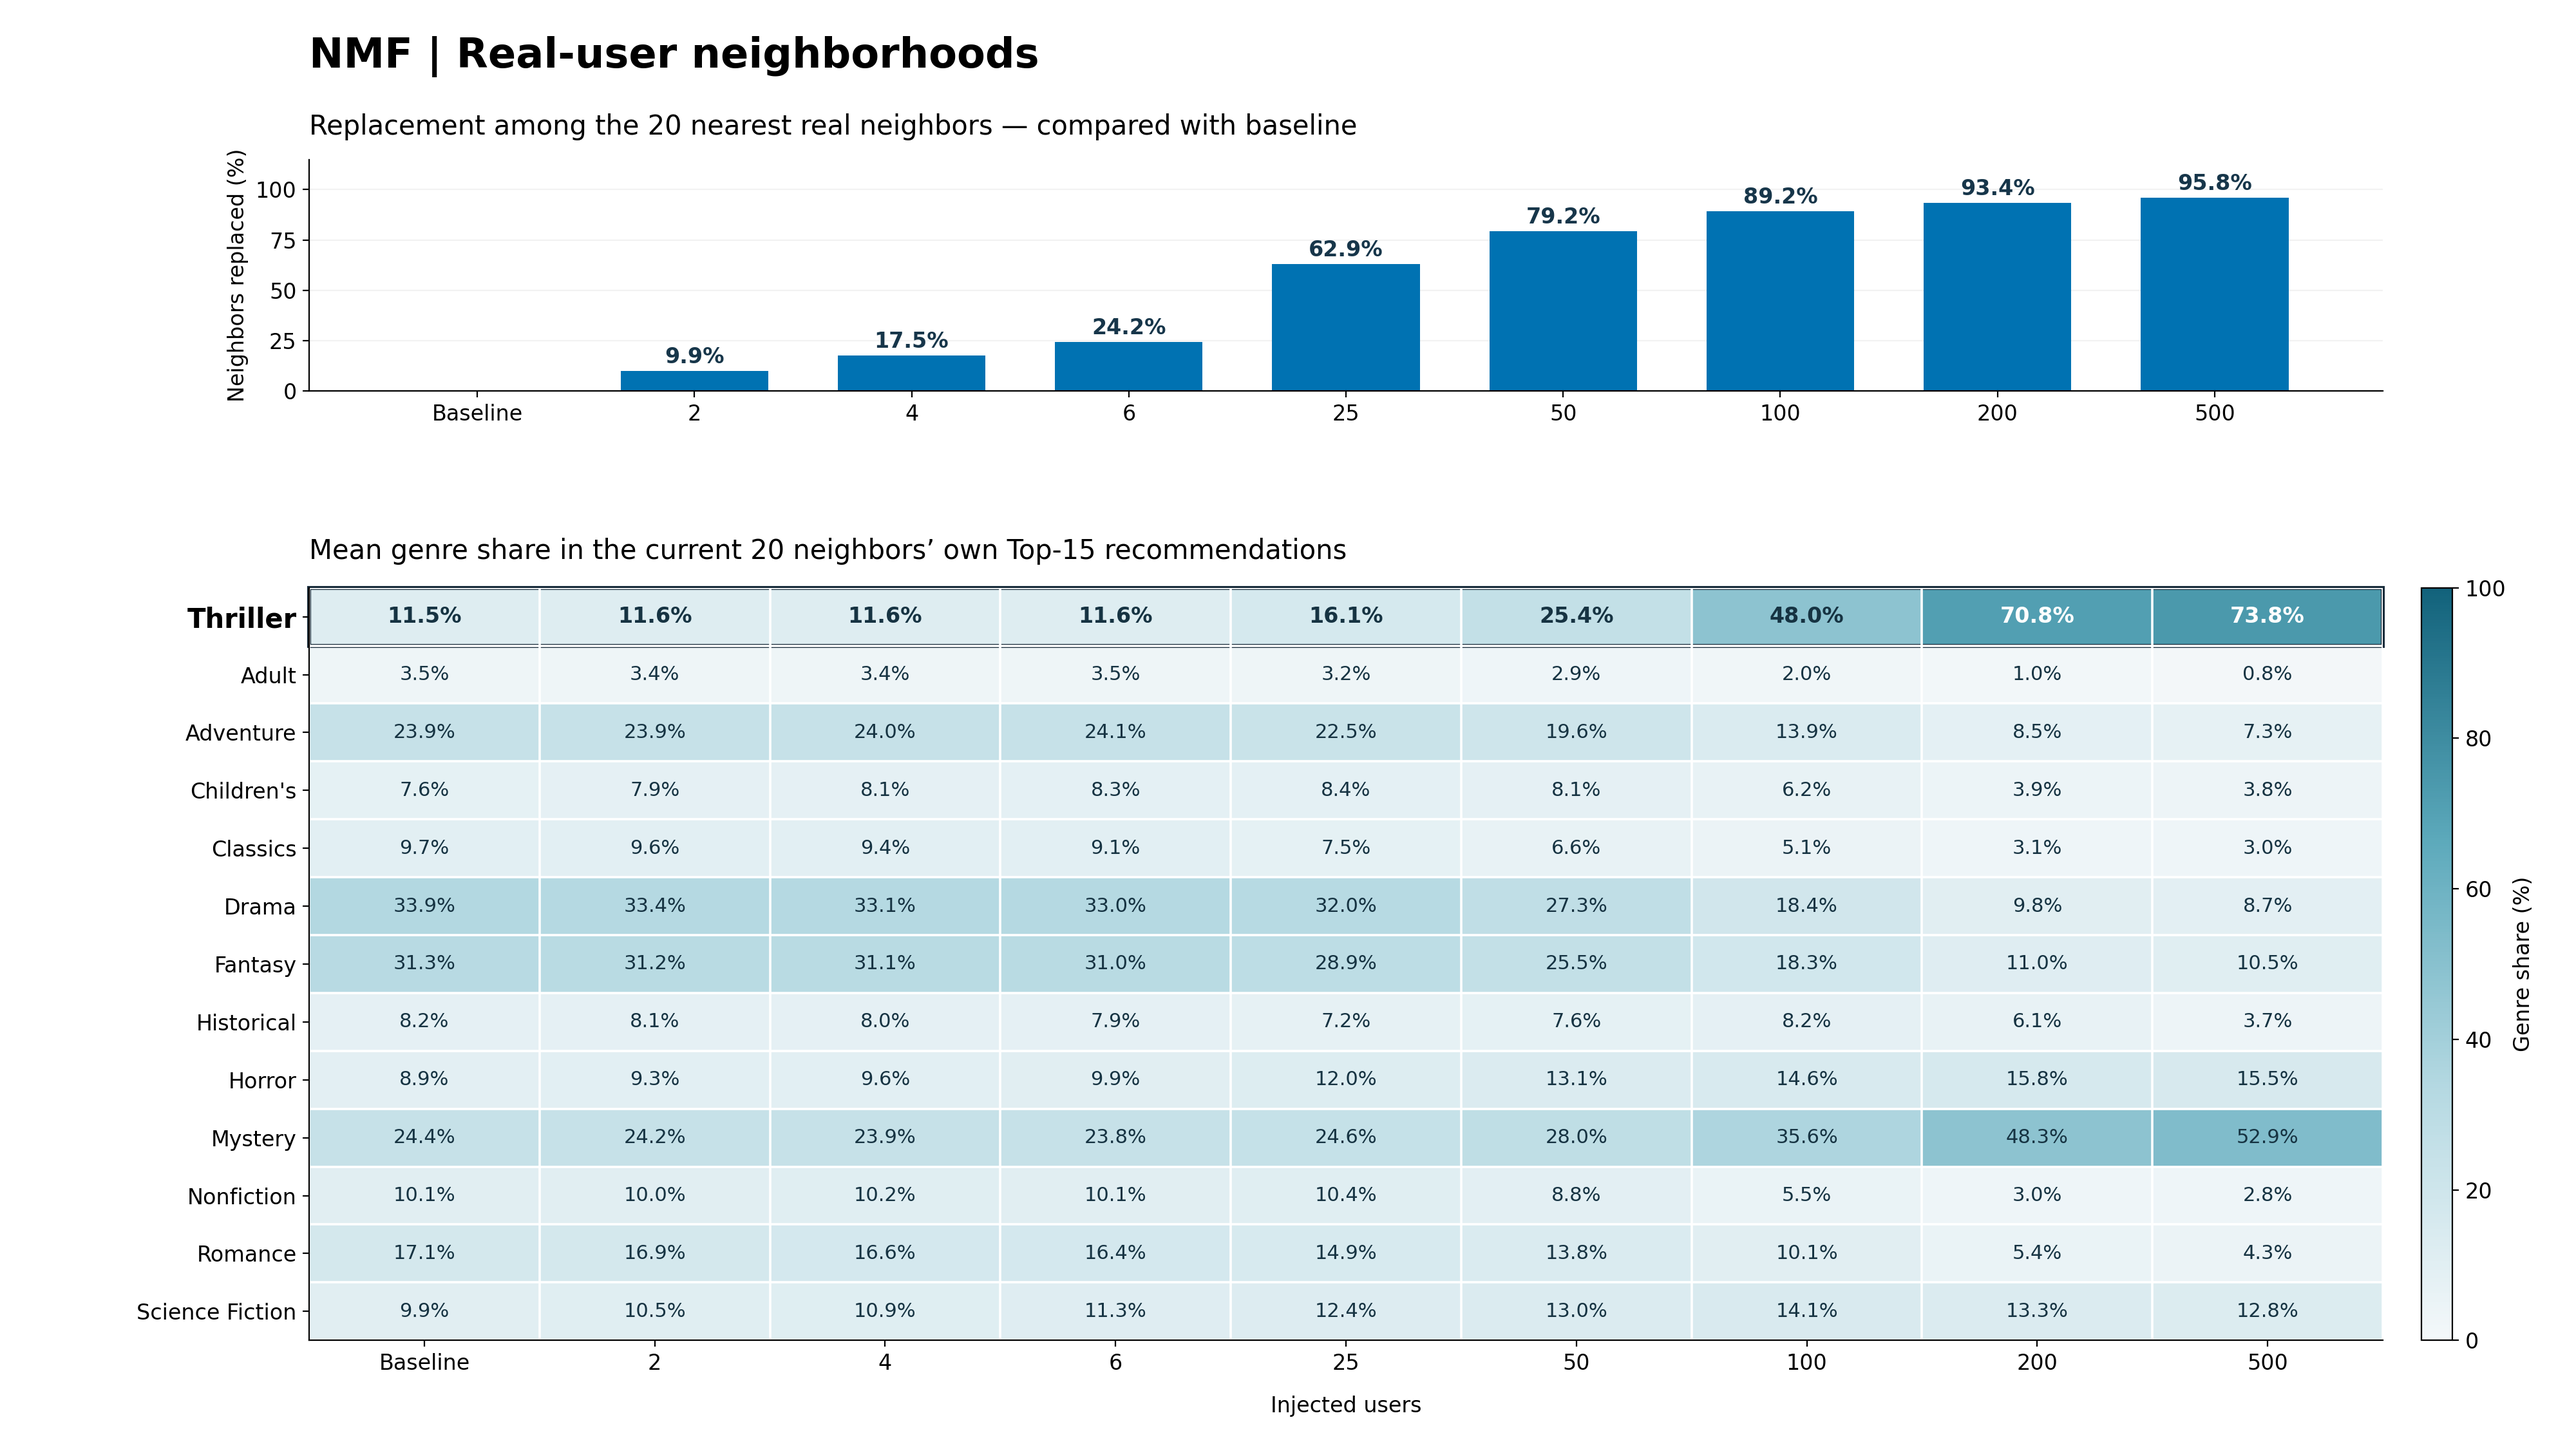
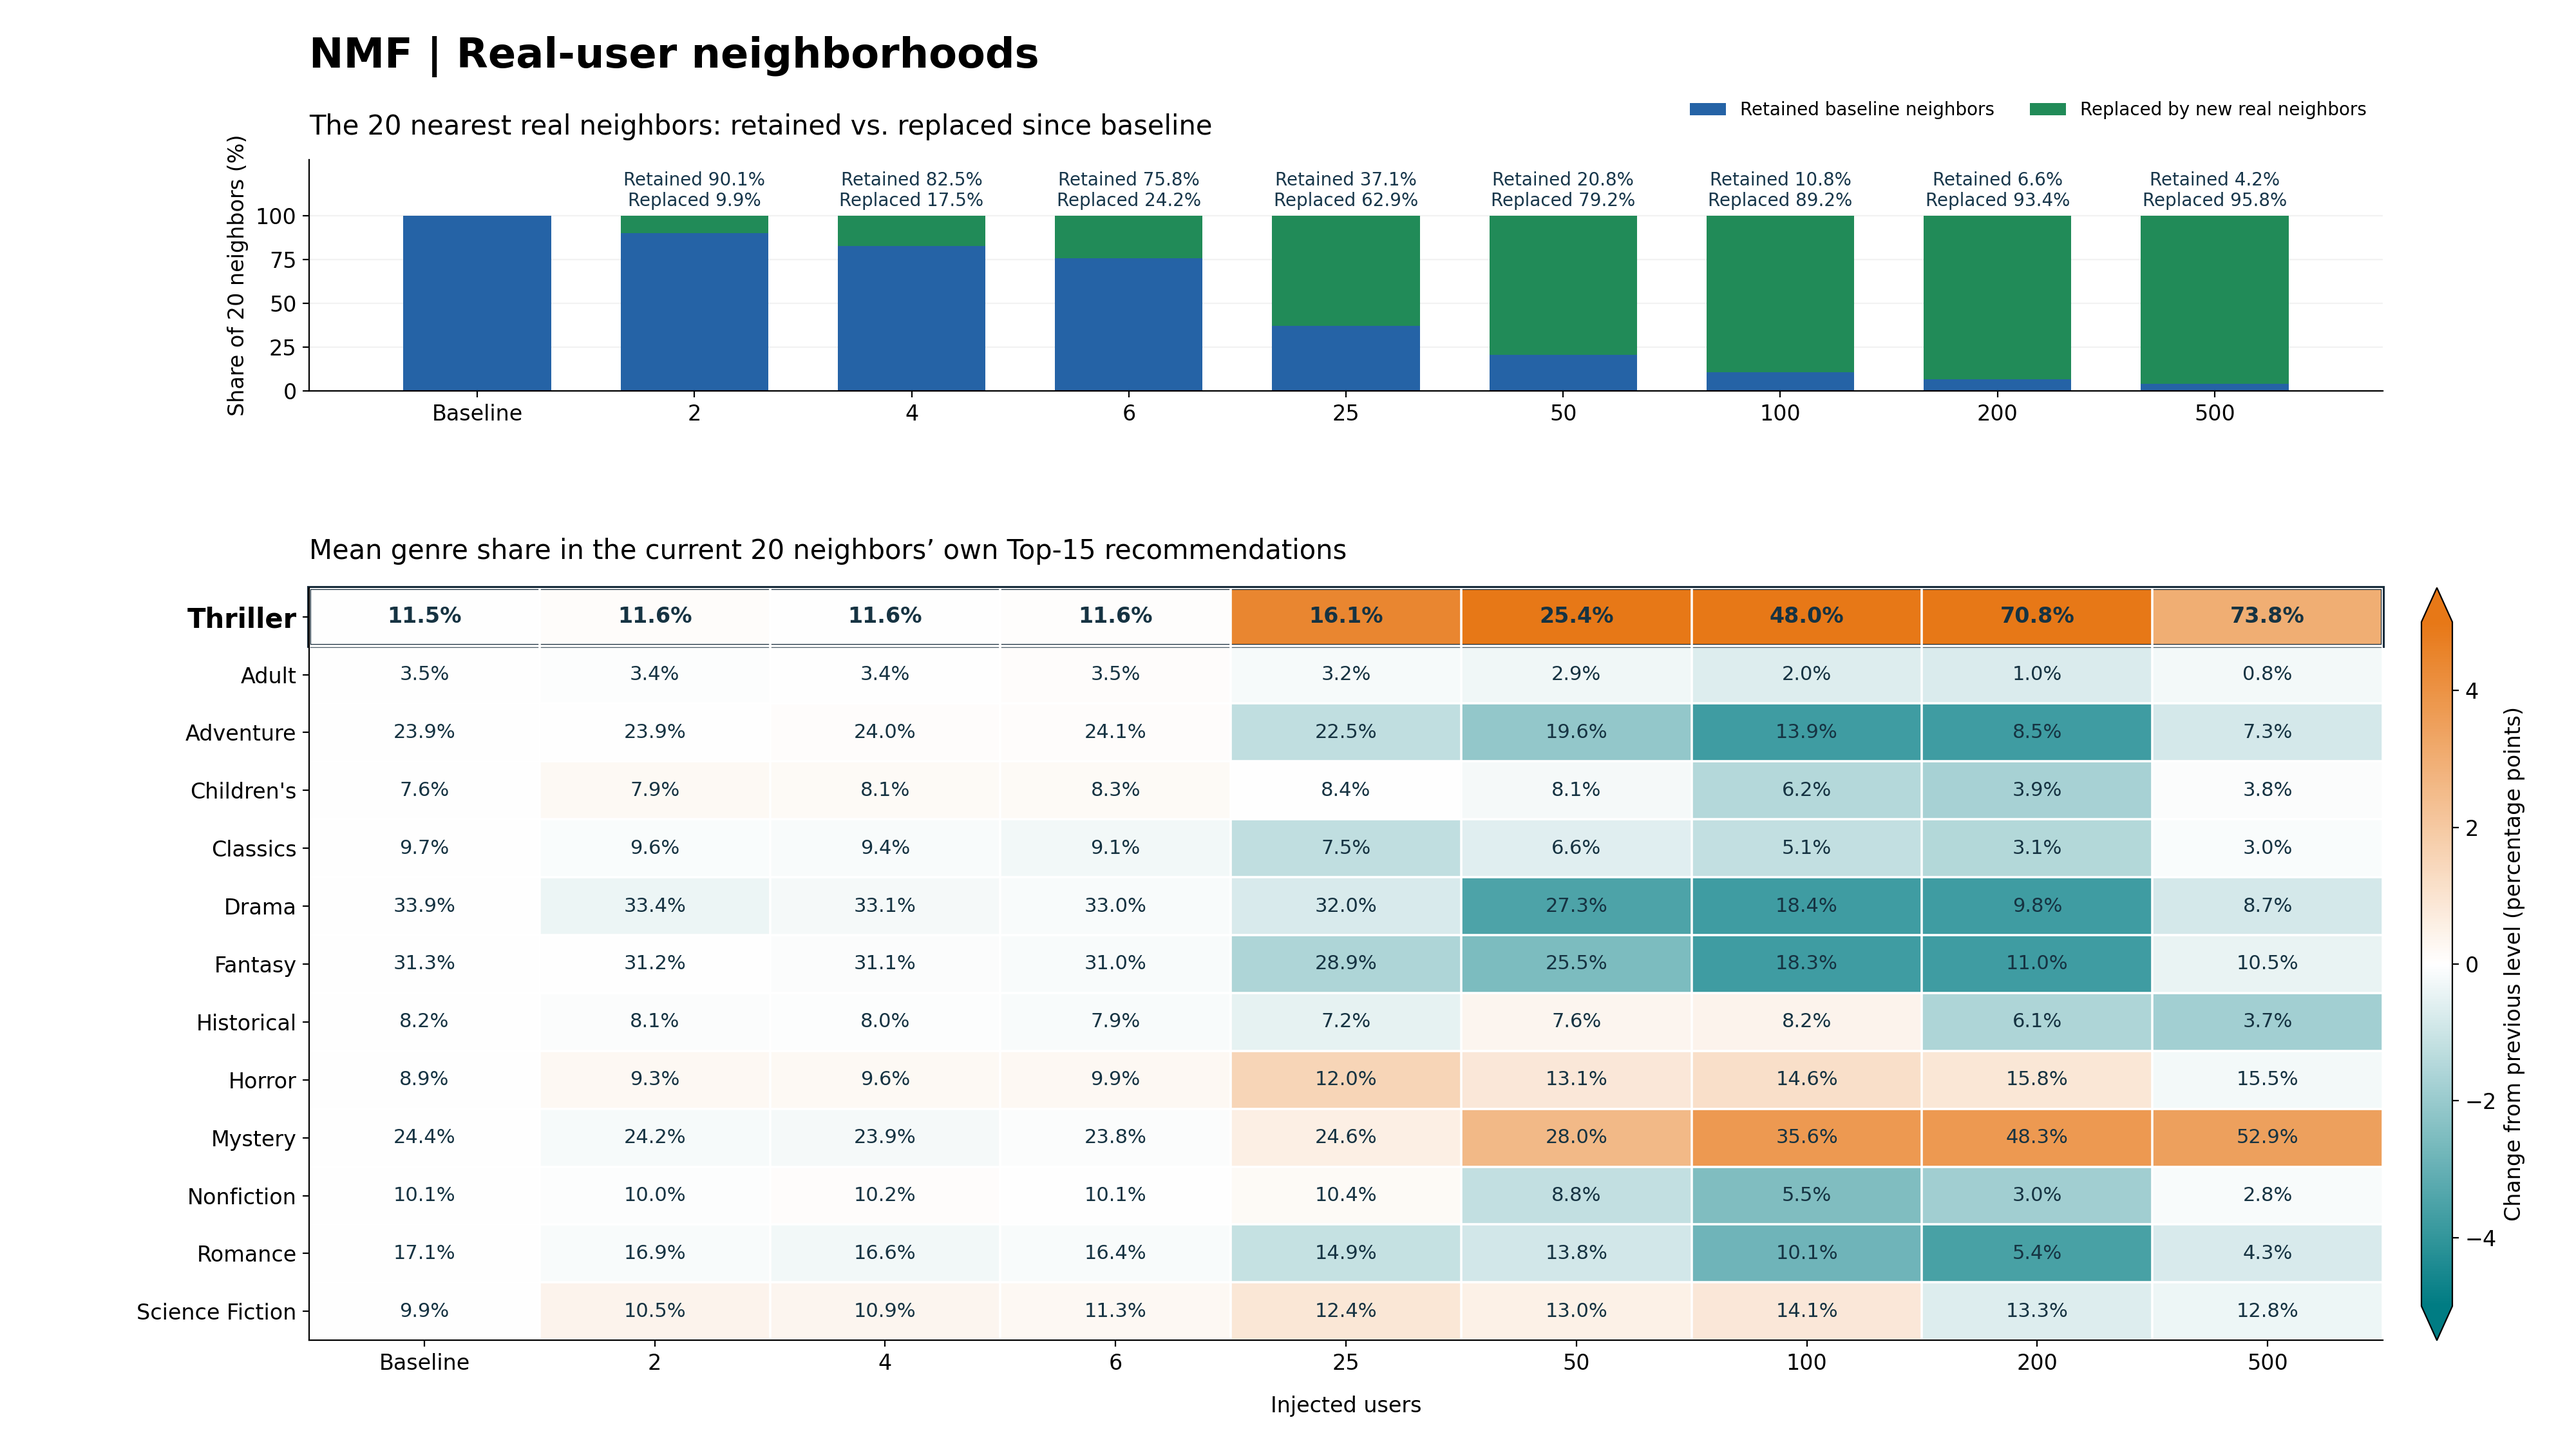
Show retained and replaced neighbor percentages and restore heatmap palette

diff --git a/Book/current/PerturbRec/svd_nmf/layer2/materials/notebook/rebuild_neighborhood_top15.py b/Book/current/PerturbRec/svd_nmf/layer2/materials/notebook/rebuild_neighborhood_top15.py
@@ -7,7 +7,7 @@ import numpy as np,pandas as pd
 import matplotlib
 matplotlib.use('Agg')
 import matplotlib.pyplot as plt
-from matplotlib.colors import LinearSegmentedColormap,Normalize
+from matplotlib.colors import LinearSegmentedColormap,Normalize,TwoSlopeNorm
 from matplotlib.patches import Rectangle
 from scipy.sparse import csr_matrix
 ROOT=Path('/home/moshtasa/Research/phd-recsys/Book/current/PerturbRec/svd_nmf/layer2')
@@ -55,18 +55,24 @@ table=pd.DataFrame(result);table.to_csv(DATA/'genre_shares_top15.csv',index=Fals
 values=table.pivot(index='genre',columns='n_fake',values='mean_genre_share_percent').loc[genres,DOSES]
 plt.rcParams.update({'font.family':'DejaVu Sans','font.size':12,'axes.spines.top':False,'axes.spines.right':False,'figure.facecolor':'white','savefig.facecolor':'white'})
 fig=plt.figure(figsize=(20,11.25));gs=fig.add_gridspec(2,1,height_ratios=[1,3.25],hspace=.40);ax=fig.add_subplot(gs[0]);hm=fig.add_subplot(gs[1]);x=np.arange(len(DOSES));labels=['Baseline']+[str(n) for n in DOSES[1:]]
-ax.bar(x,turnovers,color='#0072B2',width=.68)
+retained_percent=100-np.asarray(turnovers)
+ax.bar(x,retained_percent,color='#2563A6',width=.68,label='Retained baseline neighbors')
+ax.bar(x,turnovers,bottom=retained_percent,color='#218B58',width=.68,label='Replaced by new real neighbors')
 for j,v in enumerate(turnovers):
- if j:ax.text(j,v+1.7,f'{v:.1f}%',ha='center',va='bottom',fontsize=12,fontweight='bold',color='#17364A')
-ax.set_xticks(x,labels);ax.set_ylim(0,115);ax.set_yticks([0,25,50,75,100]);ax.set_ylabel('Neighbors replaced (%)');ax.set_title('Replacement among the 20 nearest real neighbors — compared with baseline',loc='left',fontsize=15,pad=14);ax.grid(axis='y',alpha=.16);ax.set_axisbelow(True)
-cmap=LinearSegmentedColormap.from_list('share',['#F4F8FA','#B5D9E2','#5CA9BB','#12627B']);norm=Normalize(vmin=0,vmax=100);im=hm.imshow(values.to_numpy(),aspect='auto',cmap=cmap,norm=norm)
+ if j:ax.text(j,103,f'Retained {100-v:.1f}%\nReplaced {v:.1f}%',ha='center',va='bottom',fontsize=10,linespacing=1.2,color='#17364A')
+ax.set_xticks(x,labels);ax.set_ylim(0,132);ax.set_yticks([0,25,50,75,100]);ax.set_ylabel('Share of 20 neighbors (%)');ax.set_title('The 20 nearest real neighbors: retained vs. replaced since baseline',loc='left',fontsize=15,pad=14);ax.grid(axis='y',alpha=.16);ax.set_axisbelow(True)
+ax.legend(loc='upper right',bbox_to_anchor=(1,1.32),ncol=2,frameon=False,fontsize=10)
+# Restore the original teal-white-orange palette and change-from-previous color encoding.
+delta=values.diff(axis=1).fillna(0)
+cmap=LinearSegmentedColormap.from_list('change',['#007C83','#FFFFFF','#E77817']);norm=TwoSlopeNorm(vmin=-5,vcenter=0,vmax=5);im=hm.imshow(delta.to_numpy(),aspect='auto',cmap=cmap,norm=norm)
+hm.add_patch(Rectangle((-.5,.5),len(DOSES),len(genres)-1,facecolor='white',edgecolor='none',alpha=.25,zorder=2))
 hm.set_yticks(range(len(genres)),genres,fontsize=12);hm.get_yticklabels()[0].set_fontweight('bold');hm.get_yticklabels()[0].set_fontsize(15);hm.set_xticks(x,labels);hm.set_xlabel('Injected users',labelpad=12);hm.set_title('Mean genre share in the current 20 neighbors’ own Top-15 recommendations',loc='left',fontsize=15,pad=16)
 for i in range(len(genres)):
  for j in range(len(DOSES)):
-  v=values.iloc[i,j];hm.text(j,i,f'{v:.1f}%',ha='center',va='center',fontsize=12 if i==0 else 11,fontweight='bold' if i==0 else 'normal',color='white' if v>65 else '#163342')
+  v=values.iloc[i,j];hm.text(j,i,f'{v:.1f}%',ha='center',va='center',fontsize=12 if i==0 else 11,fontweight='bold' if i==0 else 'normal',color='#163342')
 hm.set_xticks(np.arange(-.5,len(DOSES),1),minor=True);hm.set_yticks(np.arange(-.5,len(genres),1),minor=True);hm.grid(which='minor',color='white',lw=1.3);hm.tick_params(which='minor',bottom=False,left=False);hm.add_patch(Rectangle((-.5,-.5),len(DOSES),1,fill=False,edgecolor='#172B3A',linewidth=2.2,clip_on=False))
 # Dedicated colorbar axis preserves identical column positions in both panels.
-fig.subplots_adjust(left=.12,right=.925,top=.89,bottom=.075);pos=hm.get_position();cax=fig.add_axes([.94,pos.y0,.012,pos.height]);fig.colorbar(im,cax=cax,label='Genre share (%)');fig.suptitle('NMF | Real-user neighborhoods',x=.12,ha='left',fontsize=23,fontweight='bold',y=.975)
+fig.subplots_adjust(left=.12,right=.925,top=.89,bottom=.075);pos=hm.get_position();cax=fig.add_axes([.94,pos.y0,.012,pos.height]);fig.colorbar(im,cax=cax,label='Change from previous level (percentage points)',extend='both');fig.suptitle('NMF | Real-user neighborhoods',x=.12,ha='left',fontsize=23,fontweight='bold',y=.975)
 out=OUT/'neighborhood_recommendation_change_heatmap_up_to_500.png';fig.savefig(out,dpi=200);fig.savefig(DATA/'preview.png',dpi=100);plt.close(fig)
-report={'status':'complete','model':MODEL,'injected_genre':TARGET,'doses':DOSES,'n_real_users':len(ids),'neighbor_k':20,'recommendation_k':15,'neighbor_selection':'exact cosine in original saved user-factor space; self and synthetic users excluded; smaller raw user ID breaks ties','turnover_reference':'baseline identities at every dose, not previous injection level','bottom_metric':'mean over real egos of mean over their current 20 real neighbors of 100*genre count in own Top15/15','history_and_real_ids_unchanged':True,'recommendations':'previously rated books excluded; raw pu@qi.T+bi; ties by raw book ID; first 15 of saved exact ordered Top20 validated','genre_counting':'inclusive multi-label; genre percentages need not sum to 100','no_observed_human_taste_change_claim':True,'top_panel_baseline_annotation':None,'heatmap_color':'absolute share 0 to100; no delta numbers','in_figure_caption_removed':True,'no_retraining':True,'checks':checks,'output':str(out)}
+report={'status':'complete','model':MODEL,'injected_genre':TARGET,'doses':DOSES,'n_real_users':len(ids),'neighbor_k':20,'recommendation_k':15,'neighbor_selection':'exact cosine in original saved user-factor space; self and synthetic users excluded; smaller raw user ID breaks ties','turnover_reference':'baseline identities at every dose, not previous injection level','bottom_metric':'mean over real egos of mean over their current 20 real neighbors of 100*genre count in own Top15/15','history_and_real_ids_unchanged':True,'recommendations':'previously rated books excluded; raw pu@qi.T+bi; ties by raw book ID; first 15 of saved exact ordered Top20 validated','genre_counting':'inclusive multi-label; genre percentages need not sum to 100','no_observed_human_taste_change_claim':True,'top_panel_baseline_annotation':None,'top_panel':'retained and replaced percentages from 20 identities; fixed baseline reference; stacked total100','heatmap_color':'original teal-white-orange palette; change vs preceding dose; saturates at +/-5 percentage points; printed values are absolute Top15 genre shares','in_figure_caption_removed':True,'no_retraining':True,'checks':checks,'output':str(out)}
 (DATA/'validation.json').write_text(json.dumps(report,indent=2));print('SAVED',out,flush=True)
